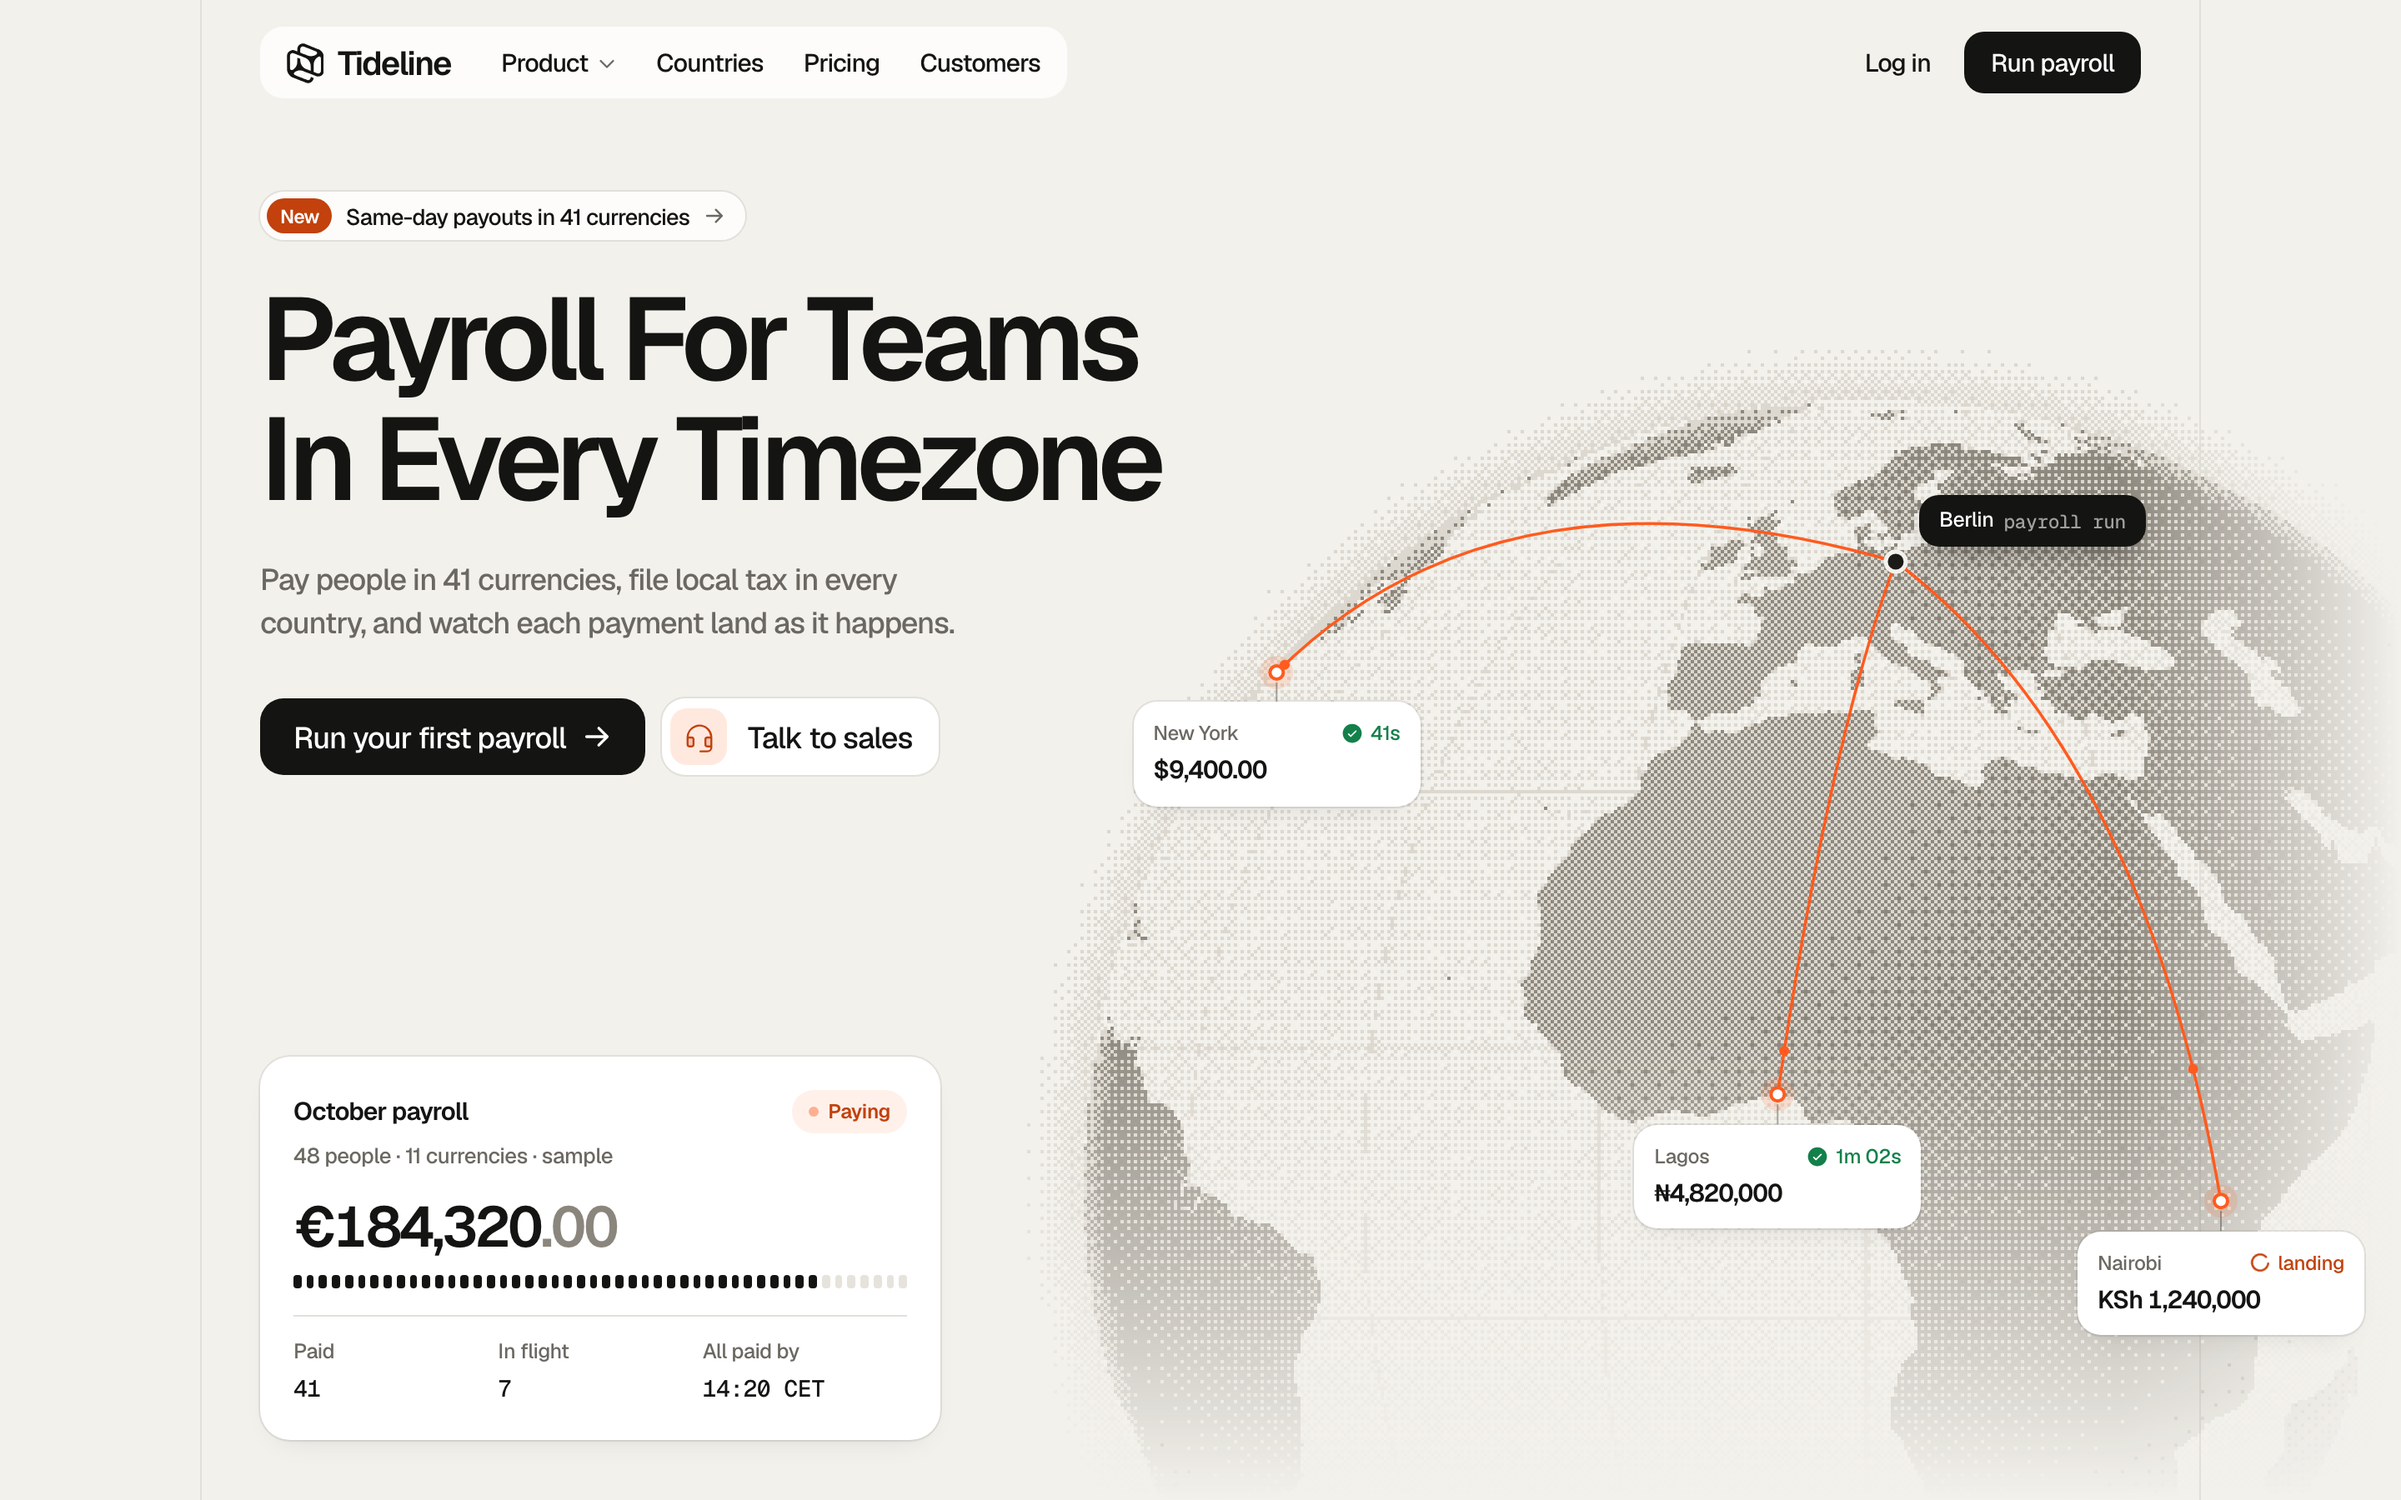
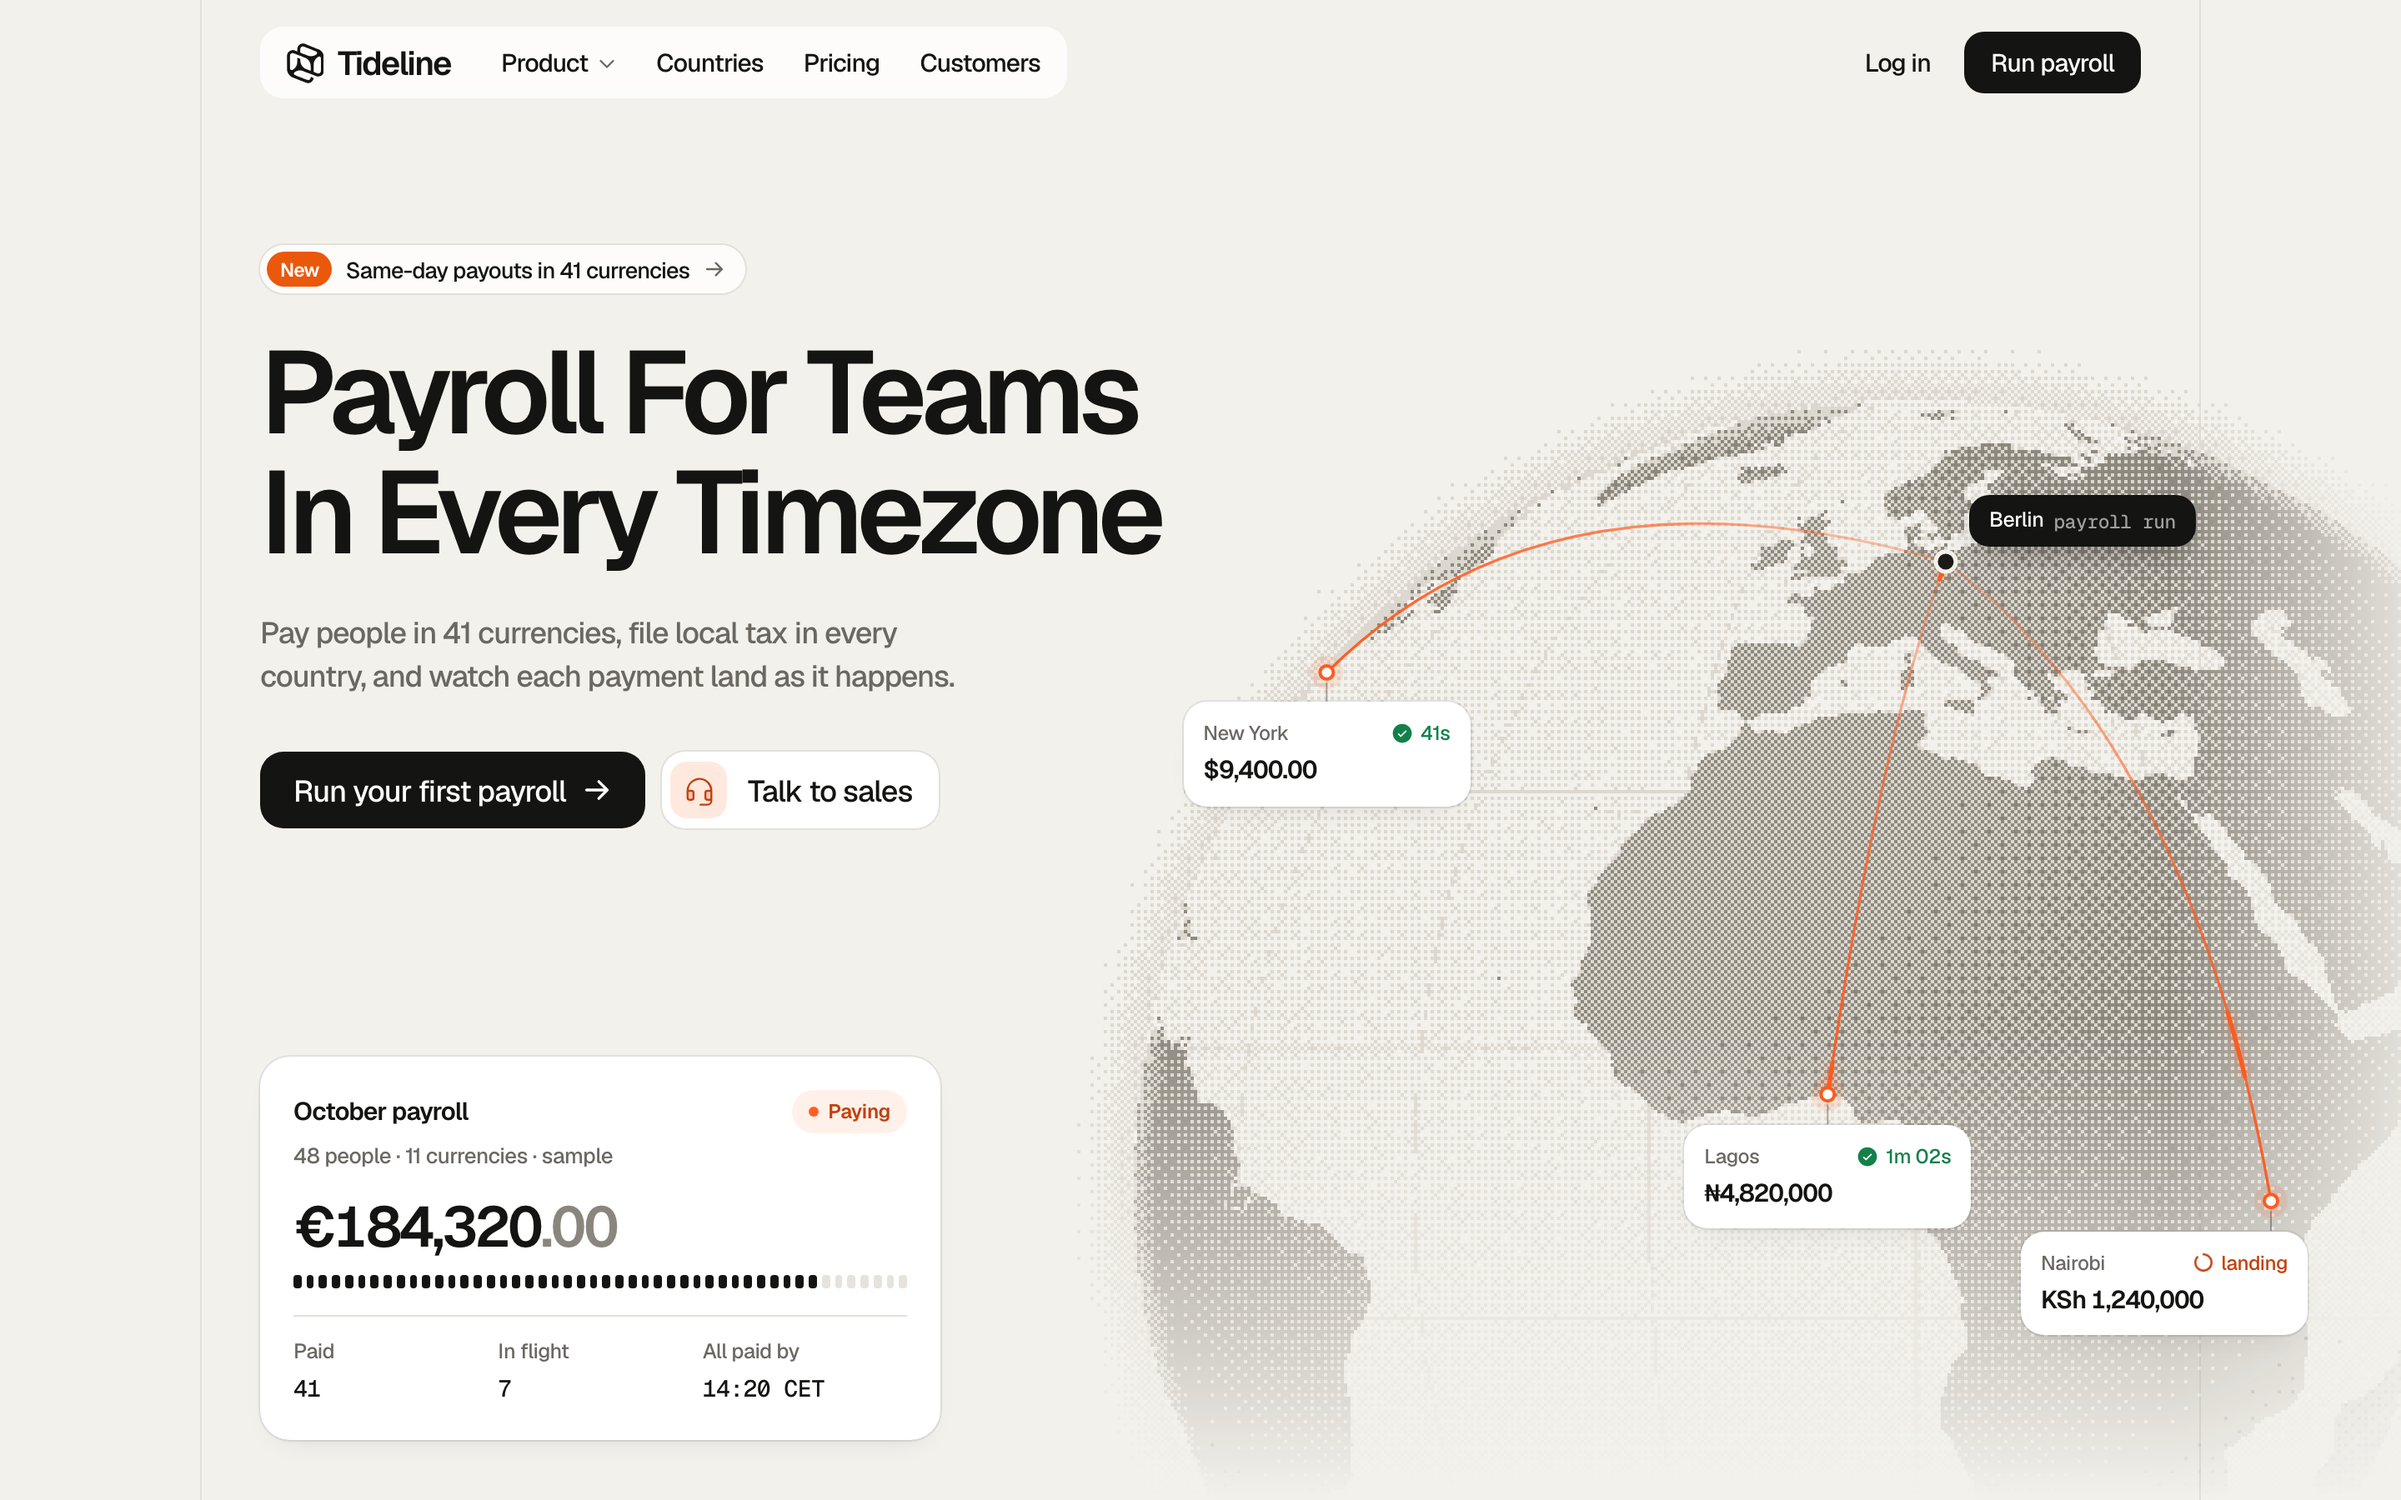
Tideline round 6: brighter New badge, content lower, globe right, flowing gradient routes with comet highlights; founder rules (26)

Changed region(s): [[0.4375, 0.2178, 1.0, 0.9333], [0.0938, 0.1244, 0.5, 0.56]]

diff --git a/work/flagship-tideline/app/src/App.tsx b/work/flagship-tideline/app/src/App.tsx
@@ -5,7 +5,7 @@ import { Globe } from './components/Globe'
 import { CITIES, HQ, project } from './components/geo'
 
 // Globe stage geometry (page px, desktop 1440x900).
-const STAGE = { left: 600, top: 150, w: 840, h: 750 }
+const STAGE = { left: 630, top: 150, w: 840, h: 750 }
 const G = { cx: 520, cy: 560, r: 470 }
 const pt = (lat: number, lon: number) => { const p = project(lat, lon); return { x: G.cx + G.r * p.x, y: G.cy - G.r * p.y } }
 const HQP = pt(HQ.lat, HQ.lon)
@@ -16,6 +16,7 @@ const PAYOUTS: Record<string, { amount: string; status: 'arrived' | 'flight'; ti
   nbo: { amount: 'KSh 1,240,000', status: 'flight', time: 'landing' },
 }
 
+const CHIP_SHIFT: Record<string, number> = { nbo: -64 } // keep chips inside the frame
 const LIFT: Record<string, number> = { nyc: 0.3, los: 0.16, nbo: 0.22 }
 function arc(a: { x: number; y: number }, b: { x: number; y: number }, k = 0.32) {
   const mx = (a.x + b.x) / 2, my = (a.y + b.y) / 2
@@ -47,14 +48,19 @@ export default function App() {
       </div>
       <div className="absolute z-[6]" style={{ left: STAGE.left, top: STAGE.top, width: STAGE.w, height: STAGE.h }}>
         <svg className="absolute inset-0 overflow-visible" width={STAGE.w} height={STAGE.h} aria-hidden="true">
+          <defs>
+            {CITIES.map((c) => { const p = pt(c.lat, c.lon); return (
+              <linearGradient key={c.id} id={`route-${c.id}`} gradientUnits="userSpaceOnUse" x1={HQP.x} y1={HQP.y} x2={p.x} y2={p.y}>
+                <stop offset="0" stopColor="#ff5b1f" stopOpacity="0.25" /><stop offset="0.55" stopColor="#ff5b1f" stopOpacity="0.75" /><stop offset="1" stopColor="#ff5b1f" />
+              </linearGradient>) })}
+          </defs>
           {CITIES.map((c, i) => {
             const d = arc(HQP, pt(c.lat, c.lon), LIFT[c.id])
             return (
               <g key={c.id}>
-                <path d={d} fill="none" stroke="#1c1b18" strokeOpacity={0.18} strokeWidth={1} />
-                <motion.path d={d} fill="none" stroke="#ff5b1f" strokeWidth={1.75} strokeLinecap="round"
-                  initial={reduce ? false : { pathLength: 0 }} animate={{ pathLength: 1 }} transition={{ delay: 0.9 + i * 0.18, duration: 1.1, ease: [0.65, 0, 0.35, 1] }} />
-                {!reduce && <circle r={3} fill="#ff5b1f"><animateMotion dur={`${2.6 + i * 0.35}s`} begin={`${2.2 + i * 0.2}s`} repeatCount="indefinite" path={d} keyPoints="0;1" keyTimes="0;1" calcMode="spline" keySplines="0.4 0 0.2 1" /></circle>}
+                <motion.path d={d} fill="none" stroke={`url(#route-${c.id})`} strokeWidth={1.6} strokeLinecap="round"
+                  initial={reduce ? false : { pathLength: 0 }} animate={{ pathLength: 1 }} transition={{ delay: 0.9 + i * 0.18, duration: 1.2, ease: [0.65, 0, 0.35, 1] }} />
+                {!reduce && <path d={d} pathLength={100} fill="none" stroke="#ff5b1f" strokeWidth={2.6} strokeLinecap="round" className="comet" style={{ animationDelay: `${2.1 + i * 0.55}s`, animationDuration: `${2.8 + i * 0.3}s` }} />}
               </g>
             )
           })}
@@ -73,7 +79,7 @@ export default function App() {
         {CITIES.map((c, i) => {
           const p = pt(c.lat, c.lon), o = PAYOUTS[c.id]
           return (
-            <motion.div key={c.id + 'chip'} {...fade(1.6 + i * 0.16)} className="absolute w-[172px] -translate-x-1/2 rounded-[14px] bg-white px-3 py-2.5 shadow-[var(--shadow-card)]" style={{ left: p.x, top: p.y + 18 }}>
+            <motion.div key={c.id + 'chip'} {...fade(1.6 + i * 0.16)} className="absolute w-[172px] -translate-x-1/2 rounded-[14px] bg-white px-3 py-2.5 shadow-[var(--shadow-card)]" style={{ left: p.x + (CHIP_SHIFT[c.id] ?? 0), top: p.y + 18 }}>
               <div className="flex items-center justify-between text-[12px] font-medium tracking-[-0.02em] text-muted">
                 <span>{c.name}</span>
                 {o.status === 'arrived'
@@ -103,9 +109,9 @@ export default function App() {
       </header>
 
       {/* copy column */}
-      <main className="relative z-10 mx-auto h-[841px] w-[1128px] pt-[56px]">
+      <main className="relative z-10 mx-auto h-[841px] w-[1128px] pt-[88px]">
         <motion.a {...fade(0)} href="#" className="inline-flex items-center gap-2 rounded-full bg-white/80 py-1 pr-3 pl-1 text-[13.5px] font-medium tracking-[-0.03em] text-ink no-underline shadow-[var(--shadow-ring)] backdrop-blur-[8px] transition-colors duration-150 hover:bg-white">
-          <span className="rounded-full bg-[#c2410c] px-2 py-0.5 text-[11.5px] font-semibold text-white">New</span>
+          <span className="rounded-full bg-[#ea580c] px-2 py-0.5 text-[11.5px] font-semibold text-white">New</span>
           Same-day payouts in 41 currencies
           <ArrowRight size={13} weight="bold" className="text-muted" />
         </motion.a>

diff --git a/work/flagship-tideline/app/src/index.css b/work/flagship-tideline/app/src/index.css
@@ -19,5 +19,9 @@ body { background: var(--color-paper); color: var(--color-ink); font-family: var
 .pulse { transform-box: fill-box; transform-origin: center; animation: pulse 2.4s cubic-bezier(.22,1,.36,1) infinite; }
 @keyframes pulse { 0% { transform: scale(.6); opacity: .9 } 100% { transform: scale(2.1); opacity: 0 } }
 .pulse-dot { animation: dot 1.6s ease-in-out infinite; } @keyframes dot { 50% { opacity: .35 } }
+.comet { stroke-dasharray: 9 91; stroke-dashoffset: 100; opacity: 0; filter: drop-shadow(0 0 3px rgba(255, 91, 31, 0.55)); animation-name: comet; animation-timing-function: cubic-bezier(.45,0,.25,1); animation-iteration-count: infinite; animation-fill-mode: both; }
+@keyframes comet { 0% { stroke-dashoffset: 100; opacity: 0 } 12% { opacity: 1 } 88% { opacity: 1 } 100% { stroke-dashoffset: 0; opacity: 0 } }
 .spin { animation: spin 1s linear infinite; } @keyframes spin { to { transform: rotate(360deg) } }
-@media (prefers-reduced-motion: reduce) { .pulse, .pulse-dot, .spin { animation: none; } }
+@media (prefers-reduced-motion: reduce) { .pulse, .pulse-dot, .comet { stroke-dasharray: 9 91; stroke-dashoffset: 100; opacity: 0; filter: drop-shadow(0 0 3px rgba(255, 91, 31, 0.55)); animation-name: comet; animation-timing-function: cubic-bezier(.45,0,.25,1); animation-iteration-count: infinite; animation-fill-mode: both; }
+@keyframes comet { 0% { stroke-dashoffset: 100; opacity: 0 } 12% { opacity: 1 } 88% { opacity: 1 } 100% { stroke-dashoffset: 0; opacity: 0 } }
+.spin { animation: none; } }

diff --git a/knowledge/founder/founder-taste.md b/knowledge/founder/founder-taste.md
@@ -105,7 +105,7 @@ Every rule here is a direct founder verdict on real output. It outranks books, w
 
 - **RULE** [founder] The "New" announcement badge keeps white text; deepen the badge colour until white passes contrast instead of switching the text to black.
   **Why** Founder: "why randomly the text there is black when it should have been white".
-  **Applies to** badges, pills. **Check** badge text is white and >= 4.5:1. **Source** founder, Tideline round 5
+  **Applies to** badges, pills. **Check** badge text is white; colour bright, not burnt (Tideline uses #ea580c, ~3.6:1: the founder judged #c2410c 'a bit too dark', so brightness wins over AA on this decorative badge). **Source** founder, Tideline rounds 5-6
 
 - **RULE** [founder] The hero product card anchors to the bottom of the hero (bottom-left on the content edge), not floating mid-column under the buttons.
   **Why** Founder: "the ticket box should be on the bottom".
@@ -114,6 +114,14 @@ Every rule here is a direct founder verdict on real output. It outranks books, w
 - **RULE** [founder] One depth and shape language across every floating surface: shared shadow tokens (ring for pills/secondary buttons, card shadow for cards and chips), radius 18 for cards, 14 for chips and hero buttons, 12 for nav controls and dark labels.
   **Why** Founder: "match consistency everywhere".
   **Applies to** all. **Check** floating surfaces use the shared shadow variables. **Source** founder, Tideline round 5
+
+- **RULE** [founder] Data routes and connecting lines flow: a gradient stroke that fades in from the origin and a soft moving highlight (comet) along the line, rather than flat static strokes with a dot.
+  **Why** Founder asked for "nicer strokes flowing".
+  **Applies to** maps, flow diagrams, connection visuals. **Check** visual + motion: routes have a gradient and a looping highlight; reduced motion shows static gradients. **Source** founder, Tideline round 6
+
+- **RULE** [founder] Give the hero copy block air at the top: roughly 80-90px between the nav and the announcement chip at 1440x900.
+  **Why** Founder: the title "and everything should be a little bit more down".
+  **Applies to** landing page hero. **Check** chip top - nav bottom ~= 80-90px. **Source** founder, Tideline round 6
 
 ## 5. Exceptions & judgement calls
 
